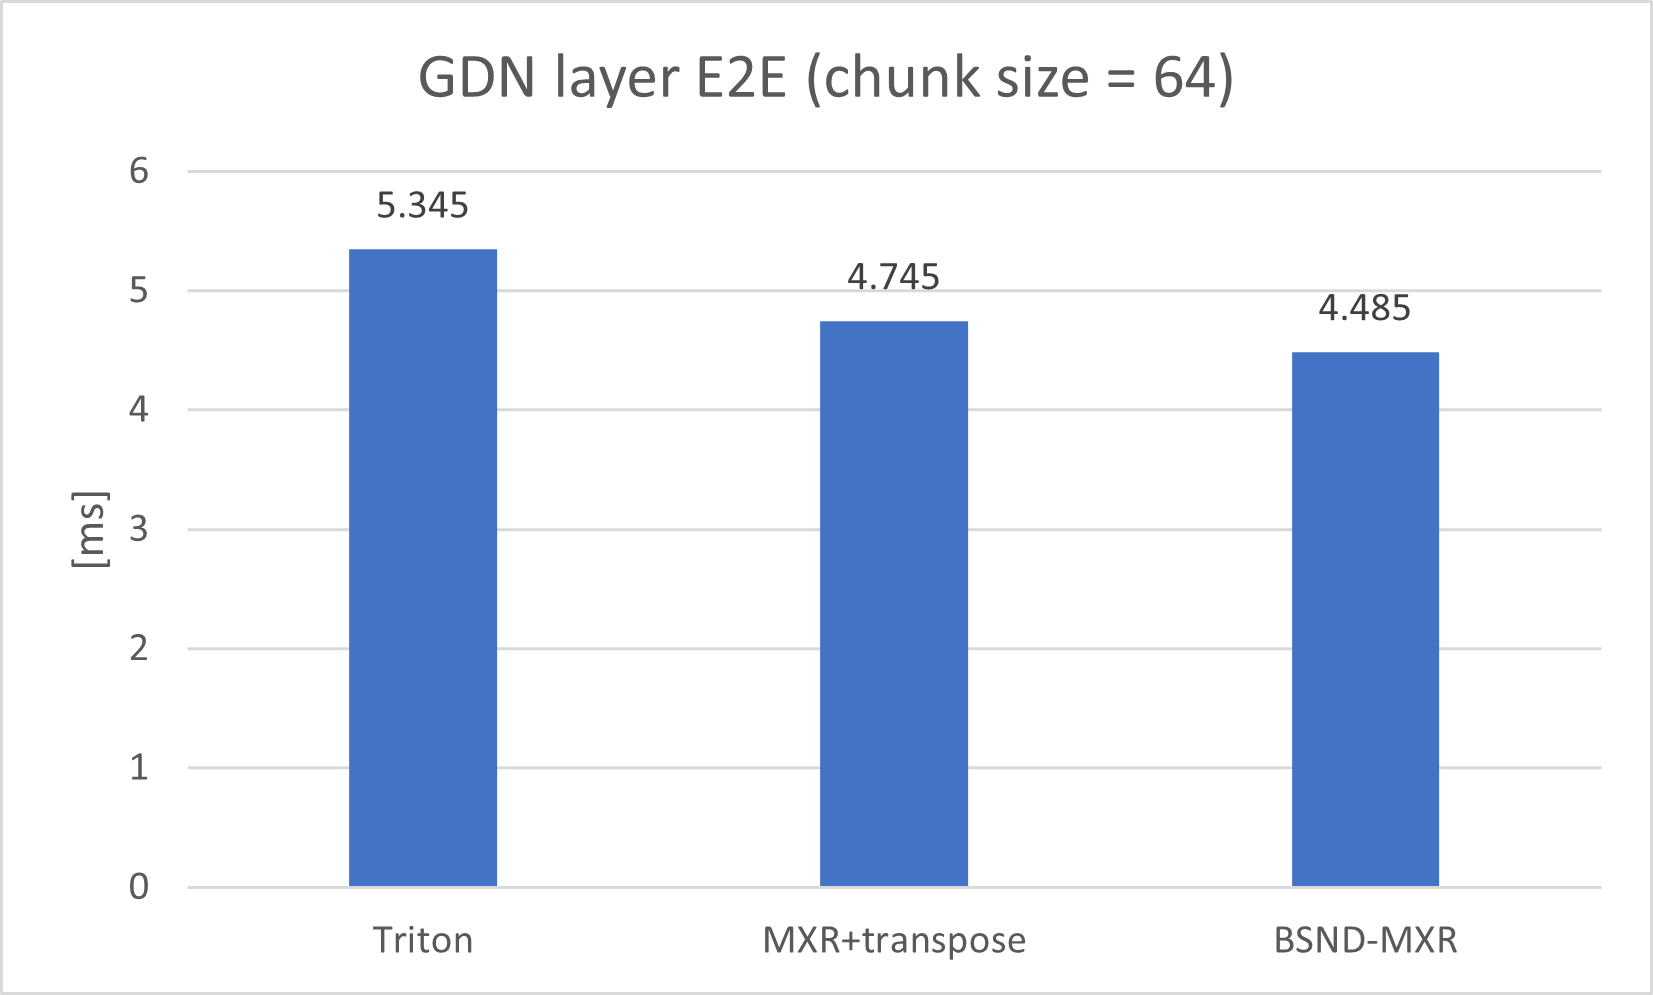
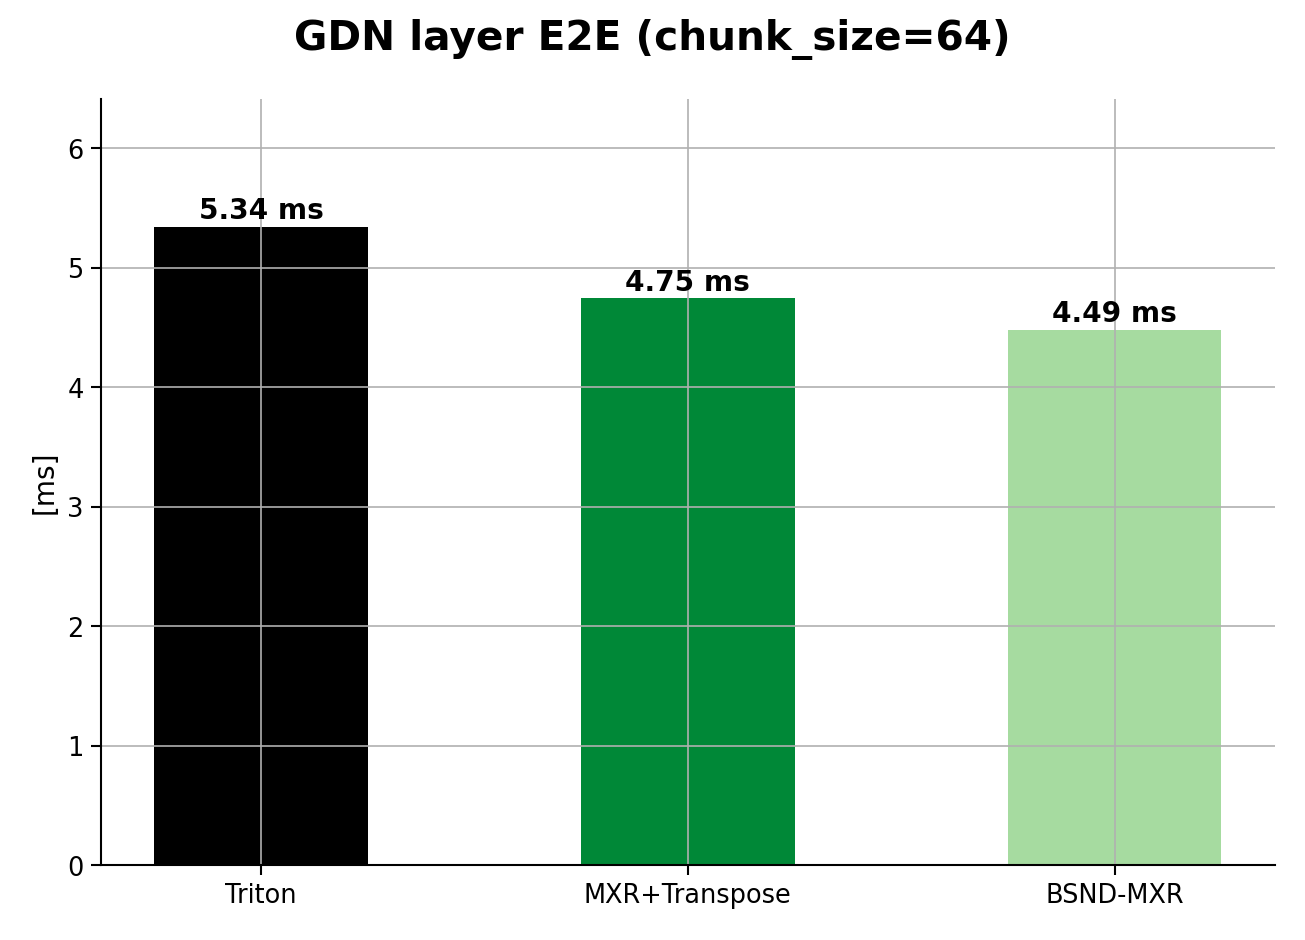
Add script to generate GDN-layer-e2e.png

diff --git a/markdown/fast_inverse_blog/scripts/plot_triton_gdn_bar.py b/markdown/fast_inverse_blog/scripts/plot_triton_gdn_bar.py
@@ -1,0 +1,92 @@
+#!/usr/bin/env python3
+"""Bar chart comparing median latency of three GDN inverse implementations (chunk_size=64)."""
+
+from __future__ import annotations
+
+import argparse
+from pathlib import Path
+
+import matplotlib.pyplot as plt
+import numpy as np
+import pandas as pd
+
+from plot_tril_mpl_style import (
+    PALETTE,
+    SUPTITLE_FONTSIZE,
+    apply_notebook_style,
+    finish_axis,
+)
+
+SCRIPT_DIR = Path(__file__).resolve().parent
+DEFAULT_CSV = SCRIPT_DIR.parent.parent.parent / "bench_results_triton_gdn.csv"
+
+SERIES_ORDER = ("triton", "cube-rec-unroll", "bsnd-rec-unroll")
+SERIES_LABELS = {
+    "cube-rec-unroll": "MXR+Transpose",
+    "bsnd-rec-unroll": "BSND-MXR",
+    "triton": "Triton",
+}
+
+TITLE = "GDN layer E2E (chunk_size=64)"
+
+
+def main(csv_path: Path) -> None:
+    apply_notebook_style()
+
+    df = pd.read_csv(csv_path)
+    df.columns = df.columns.str.strip()
+
+    medians = (
+        df.groupby("inverse_type")["elapsed_time_ms"]
+        .median()
+        .reindex(SERIES_ORDER)
+    )
+
+    labels = [SERIES_LABELS[k] for k in SERIES_ORDER]
+    values = medians.to_numpy()
+    colors = [PALETTE[i % len(PALETTE)] for i in range(len(SERIES_ORDER))]
+
+    fig, ax = plt.subplots()
+    fig.suptitle(TITLE, fontsize=SUPTITLE_FONTSIZE, fontweight="bold")
+
+    x = np.arange(len(SERIES_ORDER))
+    bars = ax.bar(x, values, color=colors, width=0.5)
+
+    for bar, val in zip(bars, values):
+        ax.text(
+            bar.get_x() + bar.get_width() / 2.0,
+            bar.get_height() + 0.02,
+            f"{val:.2f} ms",
+            ha="center",
+            va="bottom",
+            fontweight="bold",
+        )
+
+    ax.set_xticks(x)
+    ax.set_xticklabels(labels)
+    ax.set_ylabel("[ms]")
+    ax.set_ylim(bottom=0, top=values.max() * 1.2)
+    finish_axis(ax)
+
+    fig.tight_layout()
+
+    figs_dir = SCRIPT_DIR / "figs"
+    figs_dir.mkdir(parents=True, exist_ok=True)
+    out_path = figs_dir / "GDN-layer-e2e.png"
+    fig.savefig(out_path, dpi=150)
+    plt.close(fig)
+    print(f"Wrote {out_path}")
+
+
+if __name__ == "__main__":
+    parser = argparse.ArgumentParser(
+        description="Bar chart of median GDN inverse latency; writes figs/GDN-layer-e2e.png.",
+    )
+    parser.add_argument(
+        "--csv",
+        type=Path,
+        default=DEFAULT_CSV,
+        help=f"Path to benchmark CSV (default: {DEFAULT_CSV})",
+    )
+    args = parser.parse_args()
+    main(args.csv)
